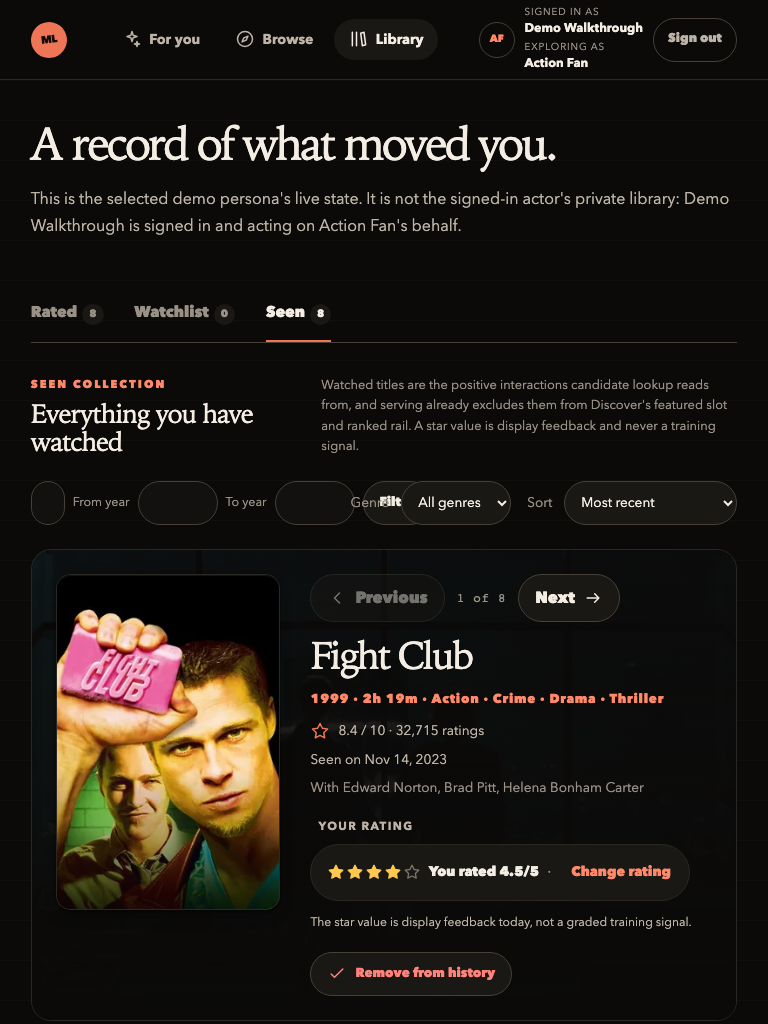
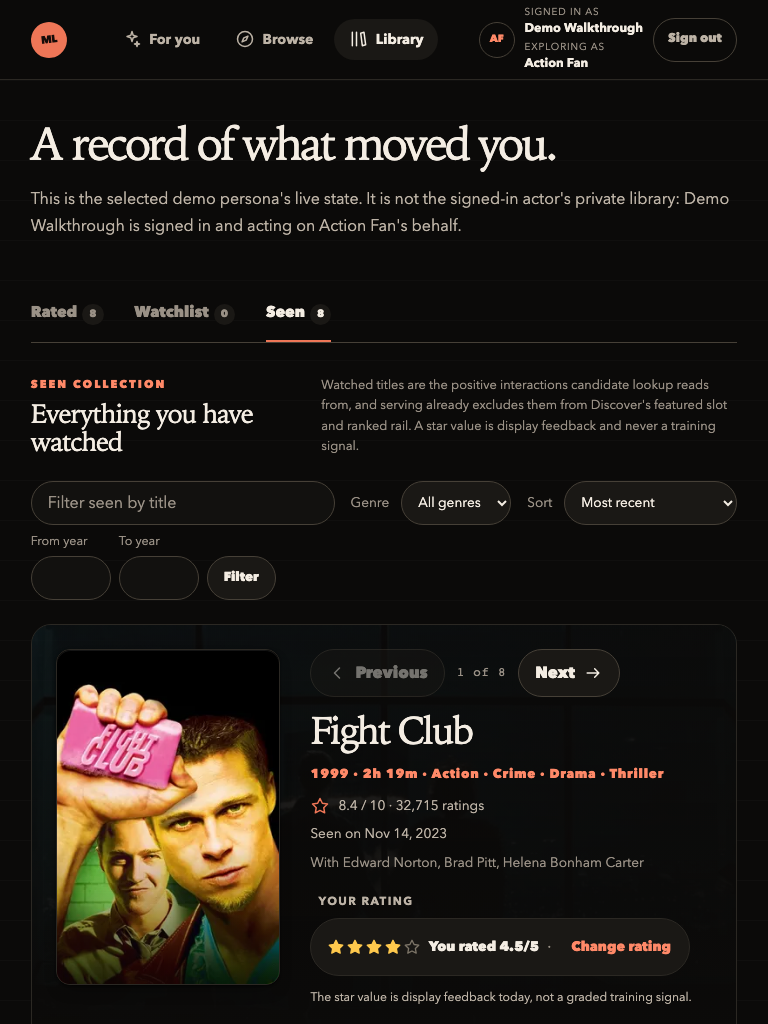
docs(evidence): re-shoot the current build after the Seen filter-row fix

diff --git a/docs/frontend/evidence/current/README.md b/docs/frontend/evidence/current/README.md
@@ -14,7 +14,7 @@ of the whole product. This one is.
 | | |
 |---|---|
 | Captured | 2026-08-29 |
-| Commit | `b92e15049e600c0d15be60ce6fdc449fc107b07a`, with uncommitted changes under `web/`, `src/`, `synthetic/` or `infra/` — the images were built from that tree rather than from the commit alone |
+| Commit | `c9f63538bd6fc0e0ee7b6c049cef4cf484e8976a` |
 | Stack | `docker-compose.yml` + `docker-compose.demo.yml`, project `movielens-demo`, images built from this tree (`make demo-up`) and seeded (`make demo-seed`) |
 | Smoke | `make demo-smoke` passed before the first capture |
 | Auth | Real Keycloak, `DEV_AUTH_BYPASS=false`, authorization code + PKCE through the Next BFF, `demo`/`demo` |
@@ -60,7 +60,7 @@ returned for it at capture time:
 ## Capture command
 
 ```bash
-make demo-up          # build api + web from this commit
+make demo-up          # build api + web from this tree
 make demo-seed        # seed the reviewed 120-title fixture
 make demo-smoke       # must pass: warm personas have to report learned: true
 cd web
@@ -89,7 +89,7 @@ signals. Persona assignment follows the ownership table in
 
 ## Files
 
-21 PNGs, 4802 KB total.
+21 PNGs, 4798 KB total.
 
 | File | Size |
 |---|---|
@@ -107,38 +107,13 @@ signals. Persona assignment follows the ownership table in
 | `movie-detail-desktop-1440.png` | 266 KB |
 | `library-mobile-390.png` | 72 KB |
 | `library-tablet-768.png` | 163 KB |
-| `library-desktop-1440.png` | 148 KB |
-| `library-seen-mobile-390.png` | 73 KB |
-| `library-seen-tablet-768.png` | 326 KB |
+| `library-desktop-1440.png` | 147 KB |
+| `library-seen-mobile-390.png` | 72 KB |
+| `library-seen-tablet-768.png` | 322 KB |
 | `library-seen-desktop-1440.png` | 374 KB |
 | `quick-picks-mobile-390.png` | 80 KB |
 | `quick-picks-tablet-768.png` | 204 KB |
 | `quick-picks-desktop-1440.png` | 238 KB |
-
-## A defect these pictures record
-
-The Seen tab's filter row does not fit at the two narrower viewports, and the
-captures show it rather than hide it. Measured by this run, on the same page
-load that was photographed:
-
-| Viewport | Form width | Content width | Search field | Button overhang |
-|---|---|---|---|---|
-| `mobile-390` | 358 px | 358 px | 34 px | none |
-| `tablet-768` | 304 px | 401 px | 34 px | 97 px past the form |
-| `desktop-1440` | 512 px | 512 px | 145 px | none |
-
-Where the content is wider than the form, the `Filter` button is painted
-outside its own form and lands on the `Genre` control beside it; where the
-search field is a few dozen pixels wide, it is a text input nobody can read what
-they typed into. The Rated and Watchlist tabs are unaffected — they carry the
-same form without the year bounds, which is the part that will not shrink.
-
-This is a product defect on `main`, not a capture artifact: it reproduces on
-reload, at every width below the point where `.library-filter` reaches its
-`max-width`, and the same row is correct at `desktop-1440`. It belongs to the
-Seen work rather than to this evidence set, so it is recorded here and fixed
-elsewhere. These four numbers are re-measured on every re-shoot, so this section
-goes away on its own when the layout is fixed.
 
 ## What these pictures are not
 
